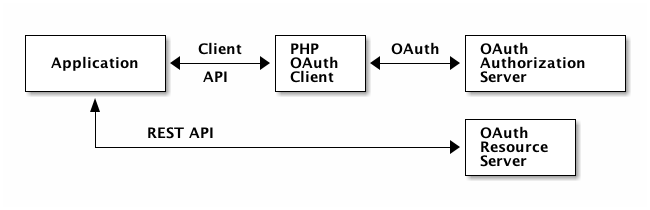
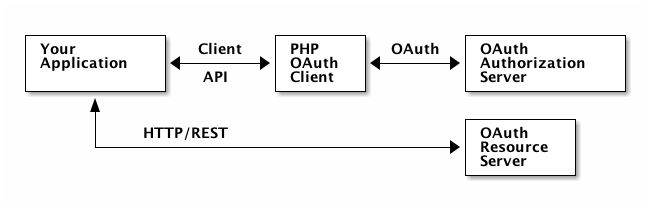
update architecture picture, remove registerApplications.php script, update initDatabase

Changed region(s): [[0.0615, 0.2, 0.2154, 0.3429], [0.2154, 0.6, 0.3692, 0.6571]]

diff --git a/docs/initDatabase.php b/docs/initDatabase.php
@@ -1,12 +1,6 @@
 <?php
 
-require_once 'lib/SplClassLoader.php';
-
-$c1 = new SplClassLoader("RestService", "extlib/php-rest-service/lib");
-$c1->register();
-
-$c2 =  new SplClassLoader("OAuth\\Client", "lib");
-$c2->register();
+require_once 'lib/_autoload.php';
 
 use \RestService\Utils\Config as Config;
 use \OAuth\Client\PdoStorage as PdoStorage;
